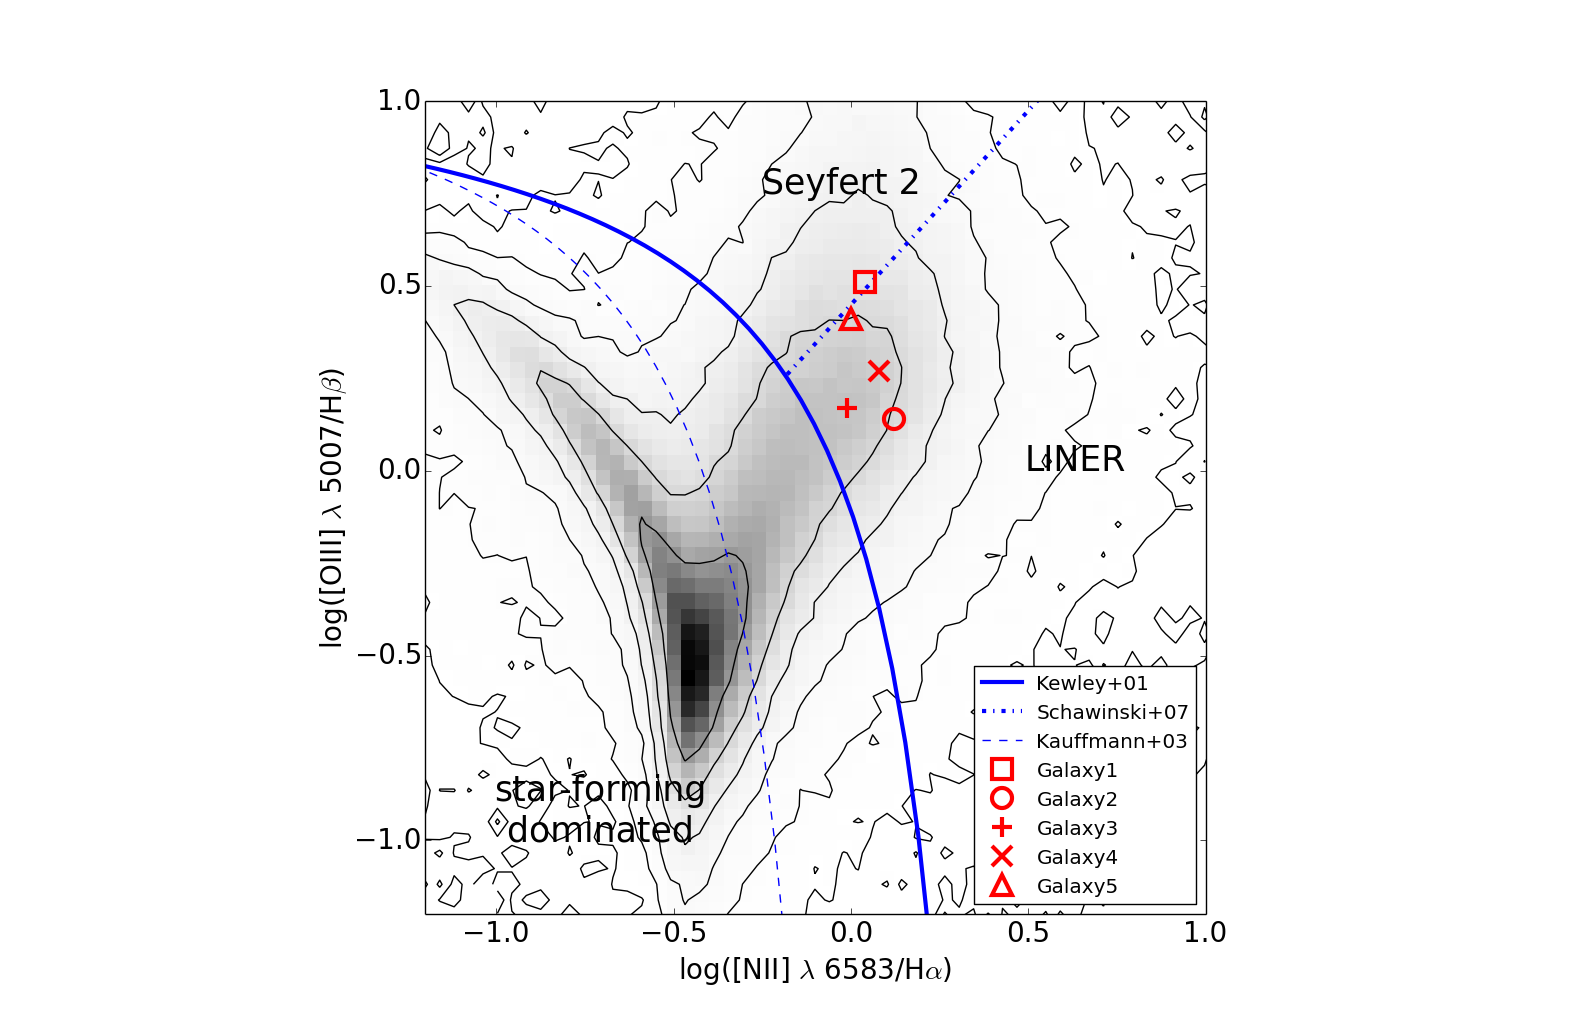
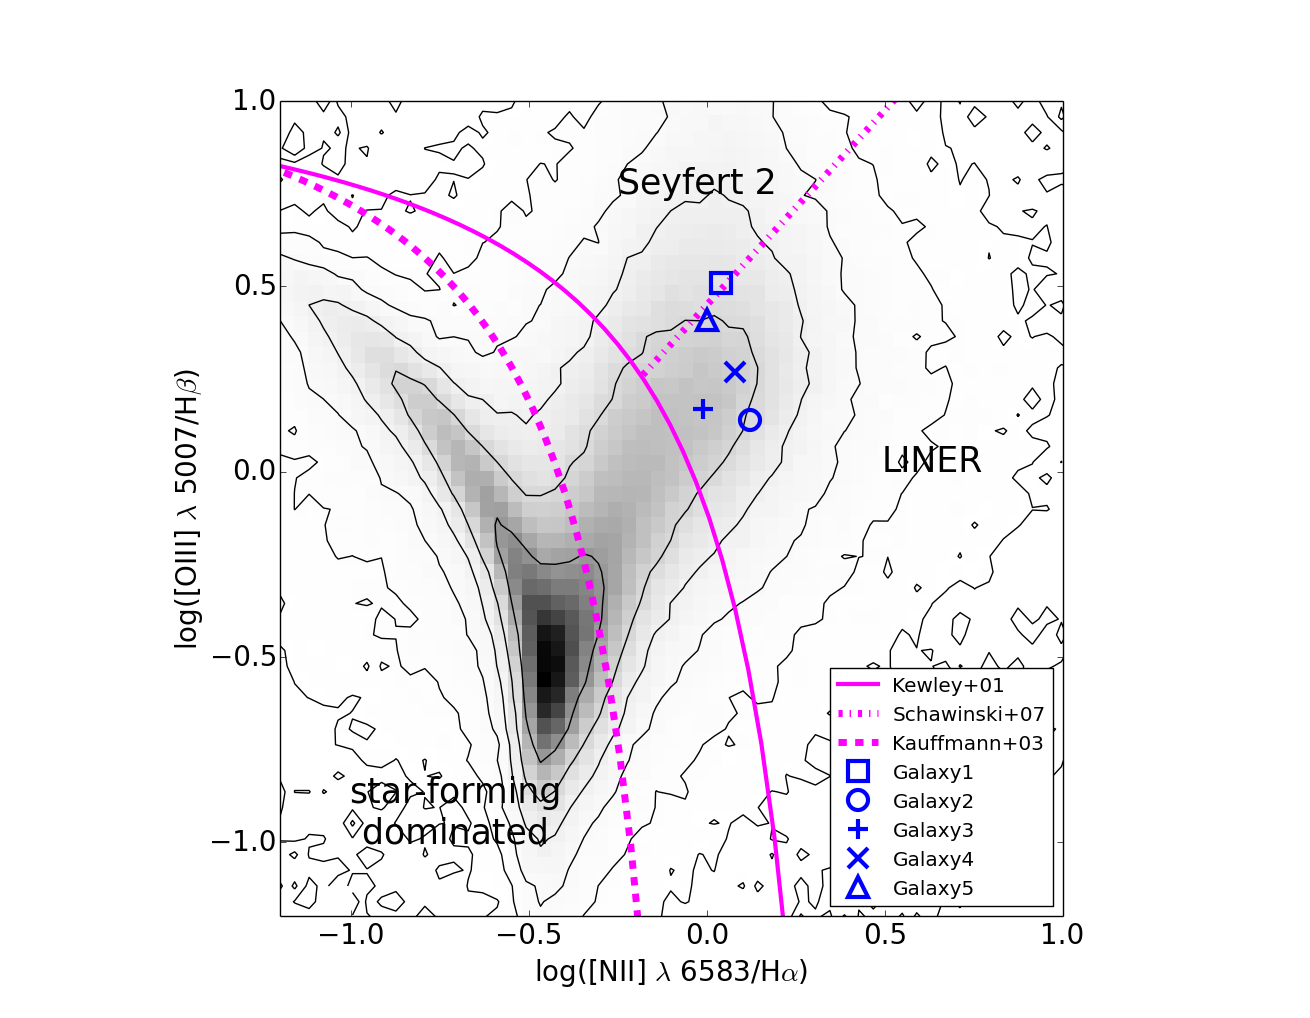
update

diff --git a/Figures/Figure2.py b/Figures/Figure2.py
@@ -1,0 +1,72 @@
+#!/usr/bin/python
+
+
+import numpy as np
+import scipy as sc
+import pylab as plt
+from matplotlib import cm as CM
+
+data = sc.genfromtxt('red.dat')
+data1 = sc.genfromtxt('gal_line_dr7_v5_2.fit.txt')
+
+
+
+N =20
+
+f=plt.figure(1)
+
+X = np.linspace(-1.5,0.3)
+
+Y = (0.61/( X  - 0.47  )) + 1.19
+
+X3 = np.linspace(-0.180,1.5)
+Y3 = 1.05*X3 + 0.45
+
+Xk = np.linspace(-1.5,0.)
+Yk = 0.61/(Xk -0.05) + 1.3
+
+yy, xx = np.log(data1[:,1]/data1[:,0])/np.log(10.) ,  np.log(data1[:,3]/data1[:,2])/np.log(10.)
+
+#plt.plot(xx,yy,'.')
+
+a1=f.add_subplot(1,1,1)
+
+hist,xedges,yedges = np.histogram2d(xx,yy,bins=(60,60),range=[[-1.2,1.2],[-1.5,1.0]])
+aspectratio = 1.0*(2.5)/(2.4)
+masked = np.ma.masked_where(hist==0, hist)
+a=a1.imshow(masked.T,extent=[-1.2,1.2,-1.5,1.0],interpolation='nearest',origin='lower', aspect=aspectratio,cmap=plt.cm.gray_r)
+#a_=plt.colorbar(a,shrink=1.)
+levels = np.linspace(0., np.log10(masked.max()), 10)[1:]
+CS     = a1.contour(np.log10(masked.T), levels, colors='k',linewidths=1,extent=[-1.2,1.2,-1.5,1.0])
+
+
+
+#ax=f.add_subplot(1,1,1)
+#hex=ax.hexbin(data[:,0],data[:,1],data[:,2],gridsize=5,cmap=CM.jet)
+#cb=f.colorbar(hex)
+#cb.set_label('Z',fontsize=N)
+a1.plot(X, Y, '-',color='blue',lw=3,label='Kewley+01')
+a1.set_xlim(-1.2, 1.0)
+a1.set_ylim(-1.2, 1.0)
+a1.set_xlabel(r'log([NII] $\lambda$ 6583/H$\alpha$)',fontsize=N)
+a1.set_ylabel(r'log([OIII] $\lambda$ 5007/H$\beta$)',fontsize=N)
+##
+a1.plot(X3,Y3,'-.',color='blue',lw=3,label='Schawinski+07')
+a1.plot(Xk, Yk,'--',color='blue',label='Kauffmann+03')
+##ax.plot(X1,Y1,'s',ms=15, fillstyle='none')
+a1.tick_params(labelsize = N)
+
+shape = ['s','o','+','x','^']
+
+for i in np.arange(len(shape)):
+
+	a1.plot(data[i,0],data[i,1],shape[i],mew=3,ms=15,fillstyle='none',color='red',label='Galaxy'+str(int(i)+1))
+
+a1.legend(numpoints=1,loc=4)
+
+
+a1.text(-1.0,-1.0,'star-forming'+'\n dominated',color='black',fontsize=25)
+a1.text(0.5,0.,'LINER',color='black',fontsize=25)
+a1.text(-0.25,0.75,'Seyfert 2',color='black',fontsize=25)
+
+plt.show()
